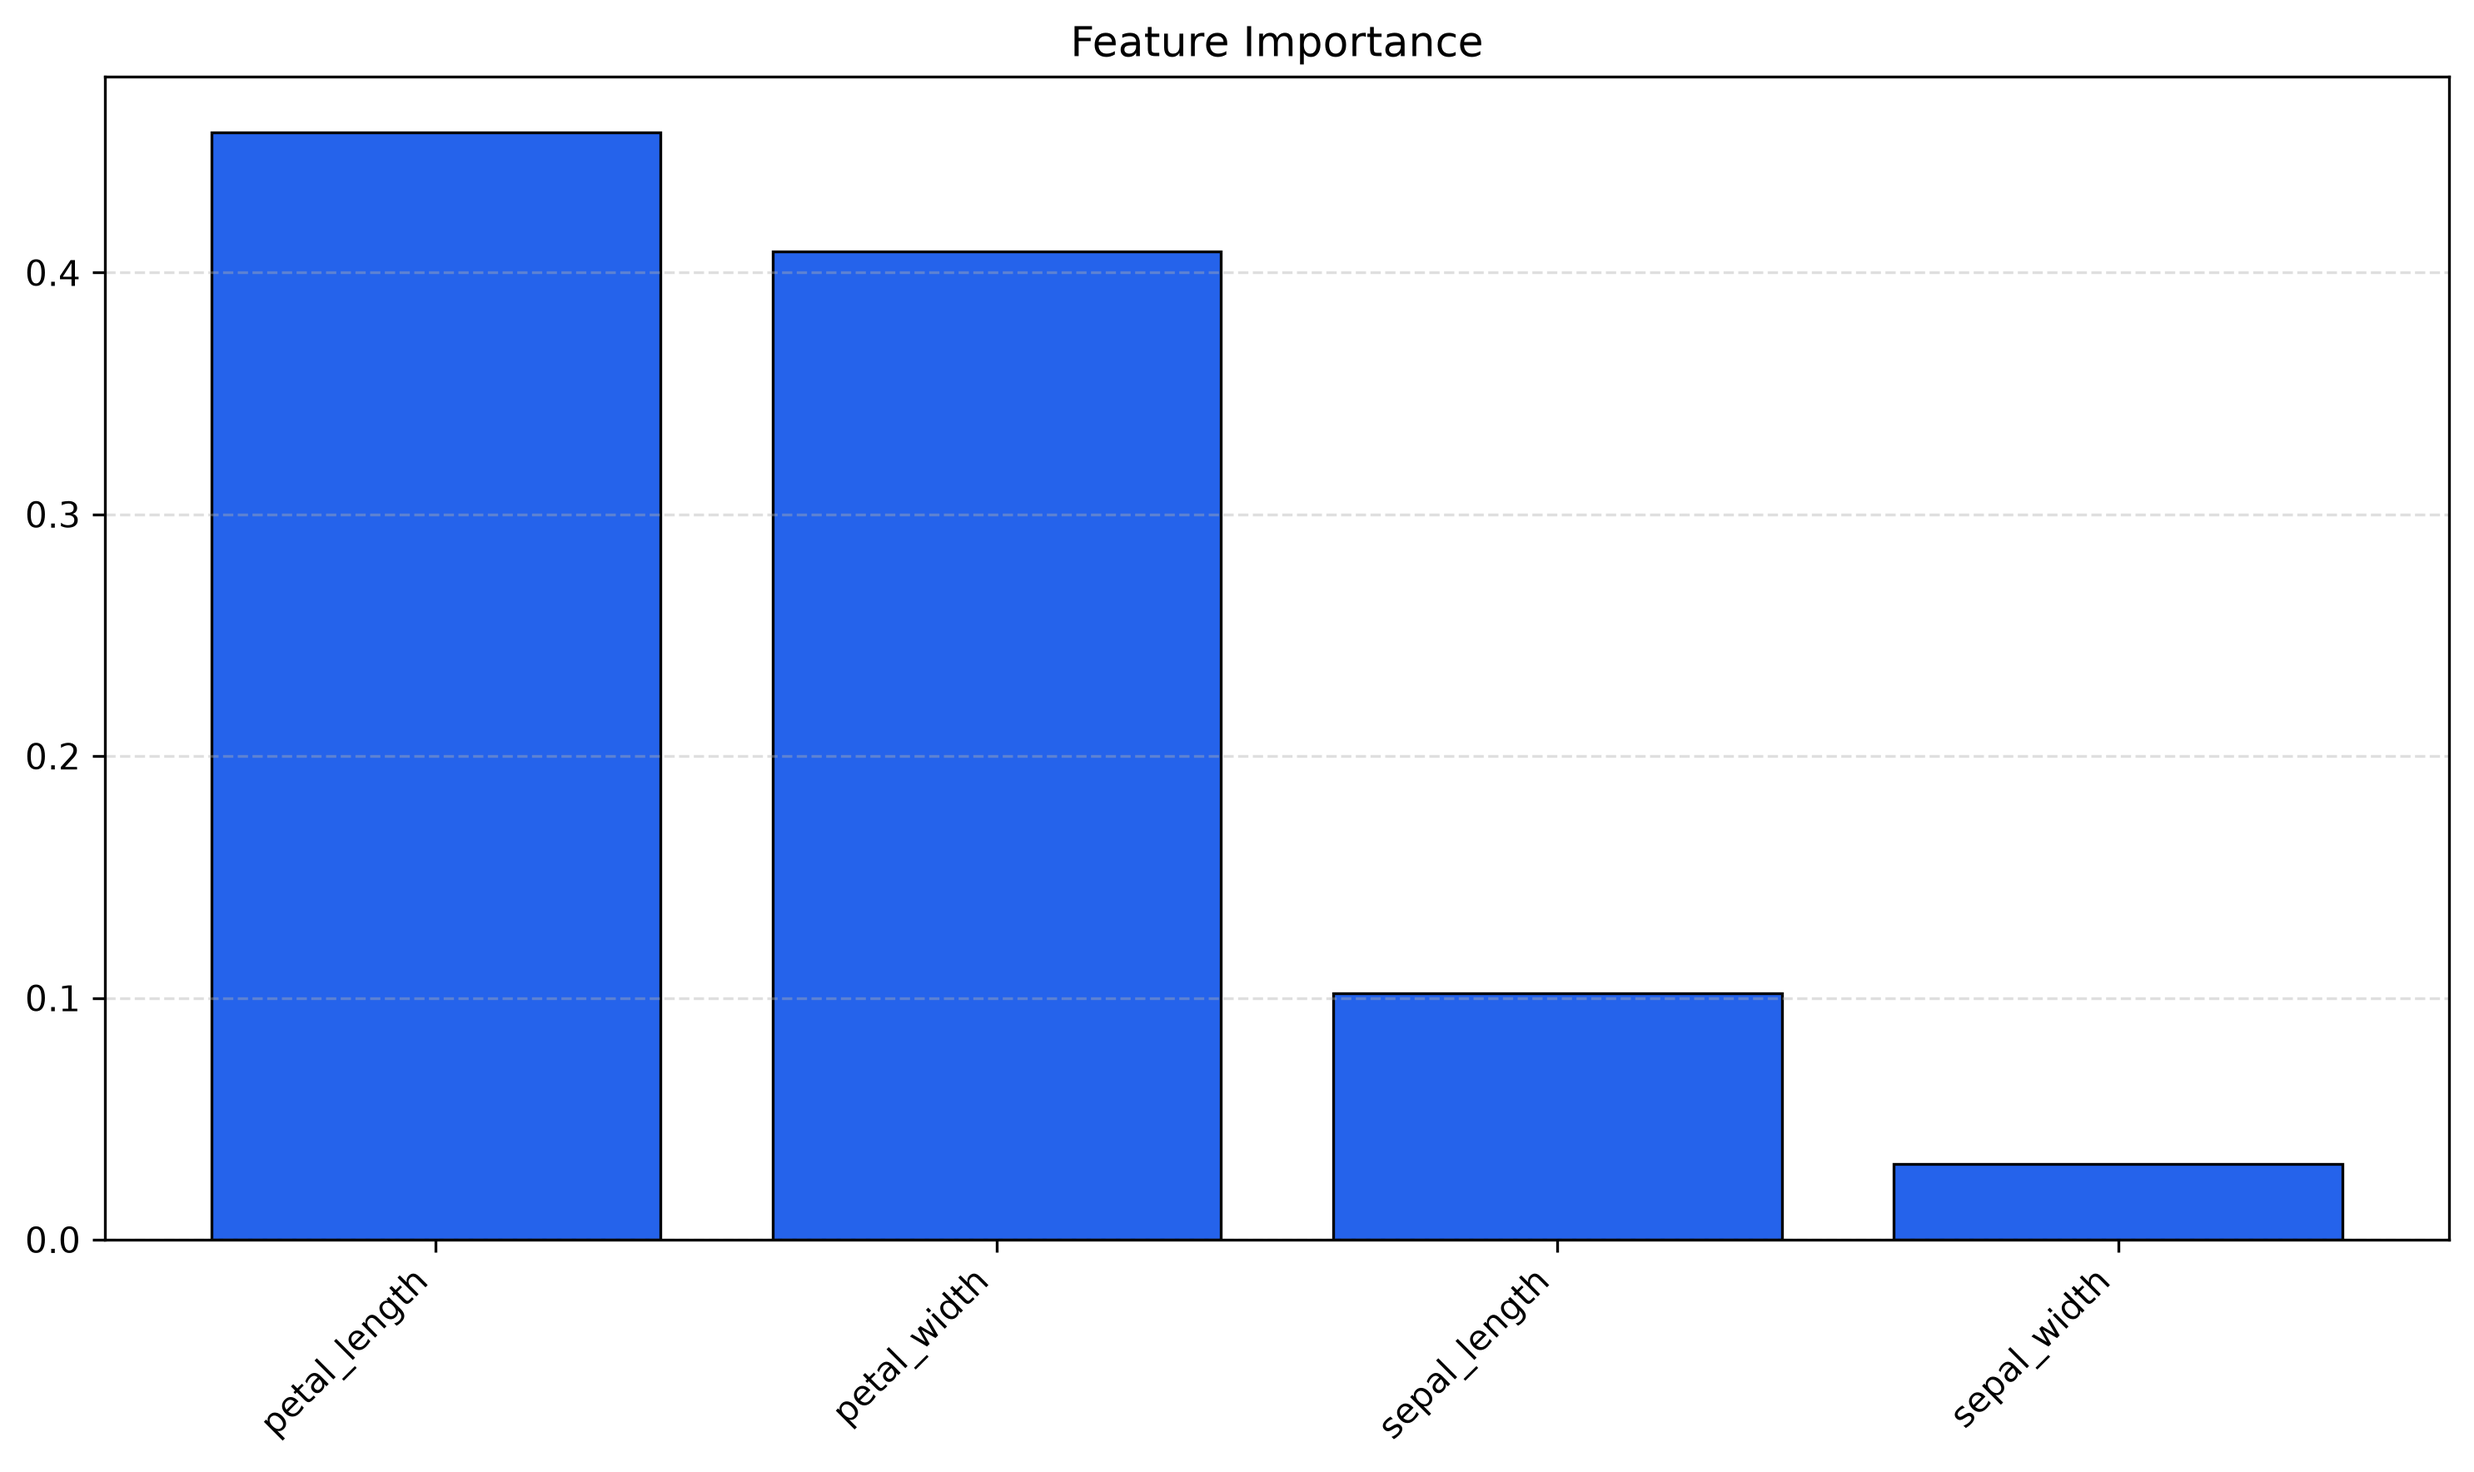
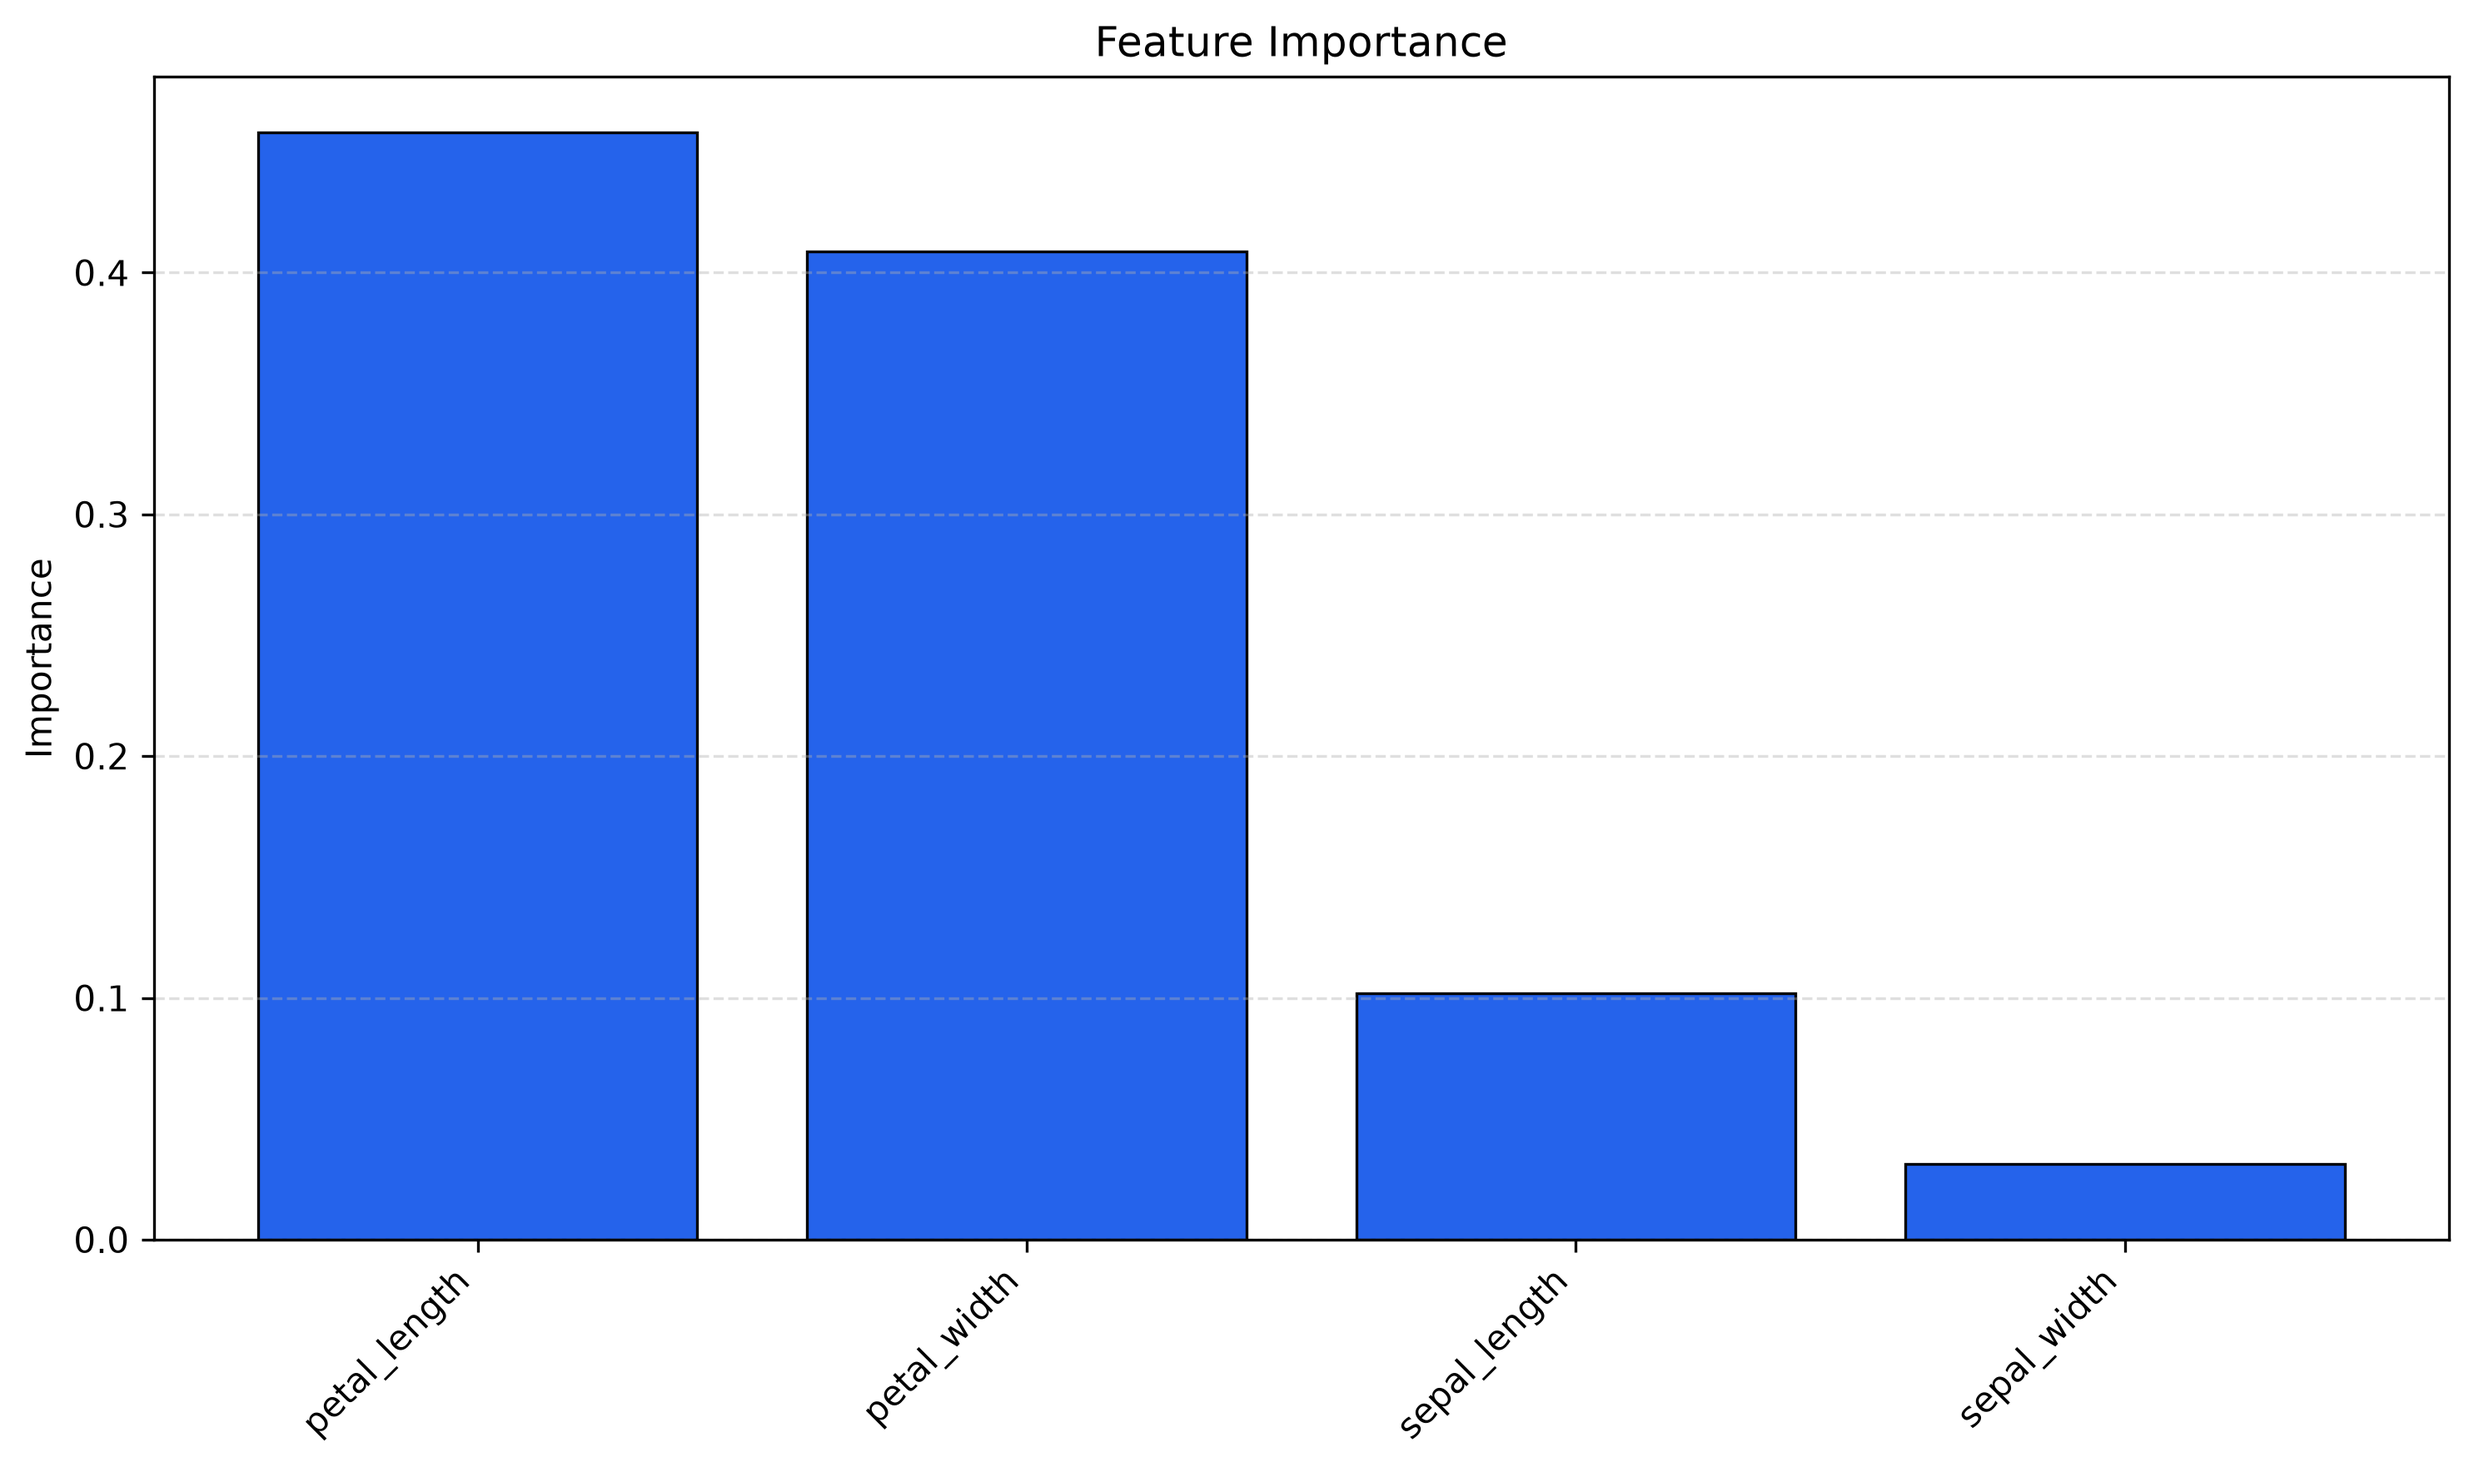
prediction distribution

diff --git a/backend/app/services/visualization_service.py b/backend/app/services/visualization_service.py
@@ -142,6 +142,16 @@ def generate_feature_importance_chart(
         rotation=45,
         ha="right",
     )
+    
+    plt.ylabel("Importance")
+
+    plt.grid(
+        axis="y",
+        linestyle="--",
+        alpha=0.4,
+    )
+
+    plt.title("Feature Importance")
 
     plt.grid(
         axis="y",
@@ -192,13 +202,18 @@ def generate_prediction_distribution_chart(
     plt.bar(
         counts.index.astype(str),
         counts.values,
-        color="#3B82F6",
+        color="#10B981",
         edgecolor="black",
         linewidth=0.8,
     )
 
     plt.xlabel("Predicted Class")
     plt.ylabel("Count")
+    plt.grid(
+        axis="y",
+        linestyle="--",
+        alpha=0.4,
+    )
     plt.title("Prediction Distribution")
     plt.tight_layout()
 
